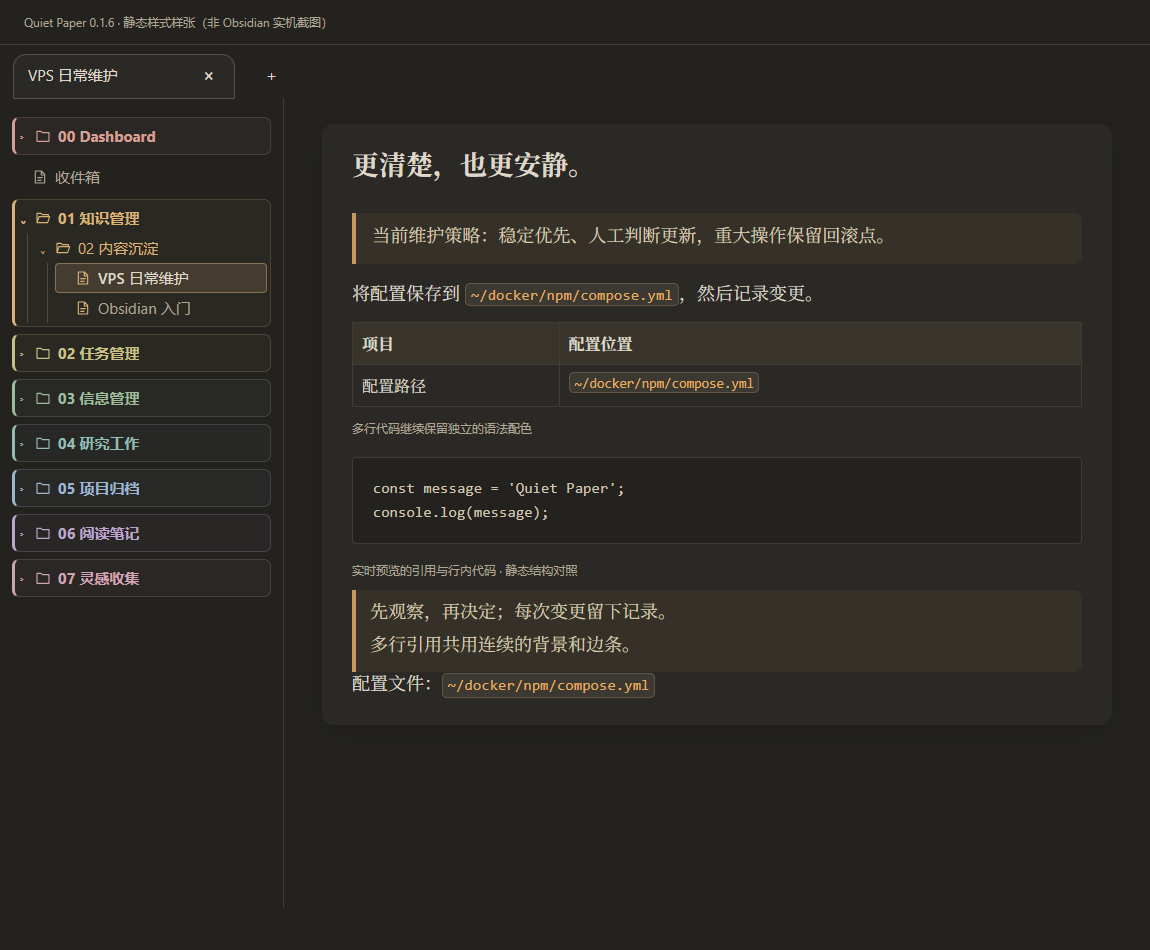
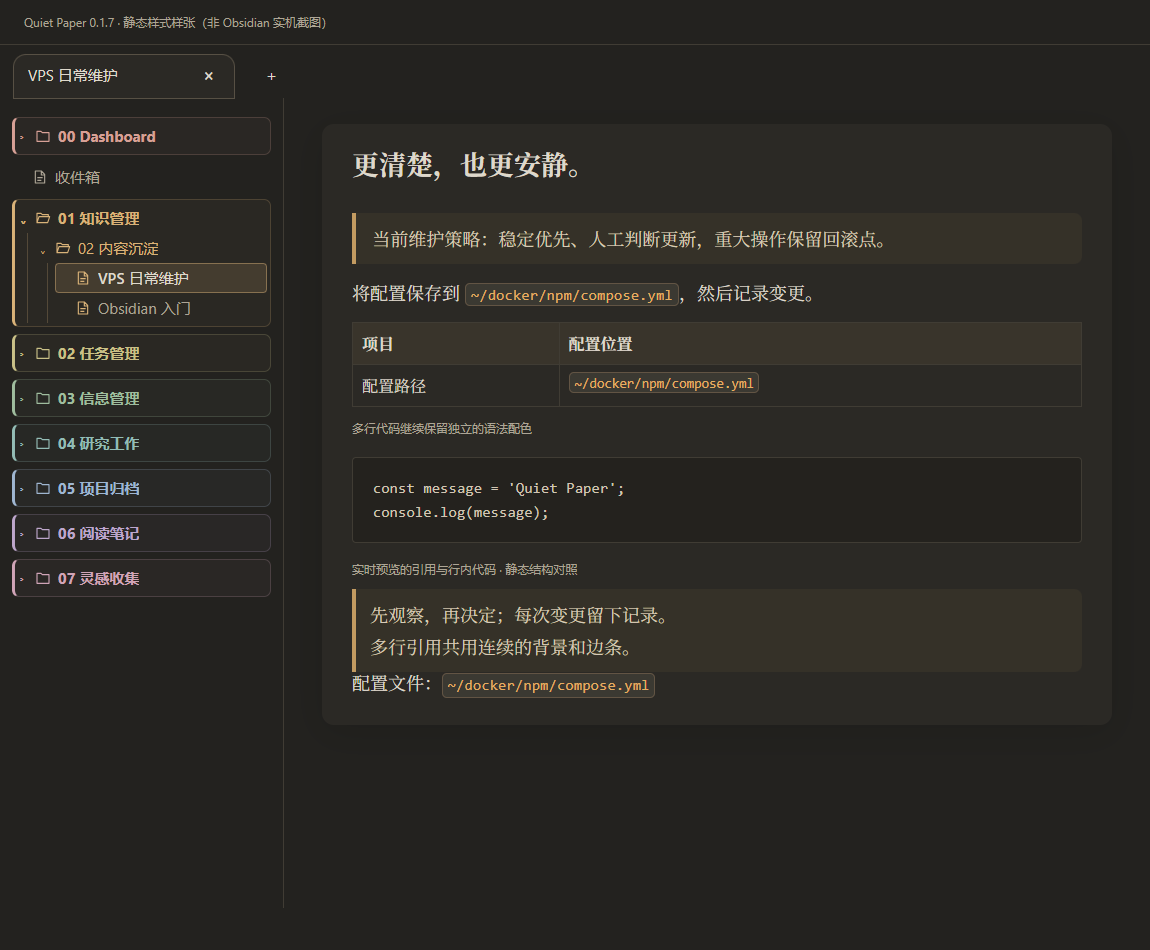
Balance quote padding and fit Mermaid diagrams to printed pages

Changed region(s): [[0.3043, 0.58, 0.5783, 0.7021], [0.3348, 0.2137, 0.7609, 0.2747]]

diff --git a/theme.css b/theme.css
@@ -1,4 +1,4 @@
-/* Quiet Paper 0.1.6 | MIT (theme) | TeX Gyre fonts: GUST Font License.
+/* Quiet Paper 0.1.7 | MIT (theme) | TeX Gyre fonts: GUST Font License.
  * Generated by npm run build; edit src/*.css instead.
  */
 
@@ -97,6 +97,12 @@ body {
   --qp-paper-radius: 12px;
   --qp-paper-shadow: 0 8px 36px rgb(42 36 24 / 5%);
   --qp-text-align: start;
+  --qp-quote-padding: 0.6em;
+
+  /* Optical adjustment for the reading font's ink above the baseline.
+     Equal-and-opposite padding preserves the total block/line height. */
+  --qp-quote-optical-offset: 0.2em;
+  --qp-mermaid-print-max-height: 80vh;
   --font-text-theme: var(--qp-reading-font);
   --line-height-normal: var(--qp-line-height);
   --line-height-tight: 1.35;
@@ -428,7 +434,8 @@ body.qp-justify {
 }
 
 .markdown-rendered blockquote {
-  padding: 0.6em 0.9em;
+  padding-block: calc(var(--qp-quote-padding) + var(--qp-quote-optical-offset)) calc(var(--qp-quote-padding) - var(--qp-quote-optical-offset));
+  padding-inline: 0.9em;
   border-radius: 0 8px 8px 0;
 }
 
@@ -440,12 +447,12 @@ body.qp-justify {
   }
 
   & > .cm-line.HyperMD-quote:not(.HyperMD-quote + .HyperMD-quote) {
-    padding-top: 0.6em;
+    padding-top: calc(var(--qp-quote-padding) + var(--qp-quote-optical-offset));
     border-start-end-radius: 8px;
   }
 
   & > .cm-line.HyperMD-quote:not(:has(+ .HyperMD-quote)) {
-    padding-bottom: 0.6em;
+    padding-bottom: calc(var(--qp-quote-padding) - var(--qp-quote-optical-offset));
     border-end-end-radius: 8px;
   }
 }
@@ -915,6 +922,30 @@ body:not(.qp-plain-folders) .workspace-leaf-content[data-type="file-explorer"] {
 
   & .nav-file-icon {
     color: var(--qp-folder-color, var(--text-muted));
+  }
+}
+
+/* 60-print.css */
+/* Print the SVG itself at page size, not a clipped screen-width viewport.
+   Mermaid emits inline pixel/percentage dimensions; !important is limited
+   to these print-only dimension overrides. Nested SVG icons stay untouched. */
+@media print {
+  .markdown-rendered .mermaid,
+  .markdown-rendered .mermaid-wrapper:not(.is-guarded) {
+    min-width: 0;
+    max-width: 100%;
+    overflow: visible;
+    break-inside: avoid;
+  }
+
+  .markdown-rendered .mermaid > svg {
+    display: block;
+    width: auto !important;
+    min-width: 0 !important;
+    max-width: 100% !important;
+    height: auto !important;
+    max-height: var(--qp-mermaid-print-max-height) !important;
+    margin-inline: auto;
   }
 }
 

diff --git a/src/30-typography.css b/src/30-typography.css
@@ -59,7 +59,8 @@
 }
 
 .markdown-rendered blockquote {
-  padding: 0.6em 0.9em;
+  padding-block: calc(var(--qp-quote-padding) + var(--qp-quote-optical-offset)) calc(var(--qp-quote-padding) - var(--qp-quote-optical-offset));
+  padding-inline: 0.9em;
   border-radius: 0 8px 8px 0;
 }
 
@@ -71,12 +72,12 @@
   }
 
   & > .cm-line.HyperMD-quote:not(.HyperMD-quote + .HyperMD-quote) {
-    padding-top: 0.6em;
+    padding-top: calc(var(--qp-quote-padding) + var(--qp-quote-optical-offset));
     border-start-end-radius: 8px;
   }
 
   & > .cm-line.HyperMD-quote:not(:has(+ .HyperMD-quote)) {
-    padding-bottom: 0.6em;
+    padding-bottom: calc(var(--qp-quote-padding) - var(--qp-quote-optical-offset));
     border-end-end-radius: 8px;
   }
 }

diff --git a/src/60-print.css b/src/60-print.css
@@ -1,0 +1,22 @@
+/* Print the SVG itself at page size, not a clipped screen-width viewport.
+   Mermaid emits inline pixel/percentage dimensions; !important is limited
+   to these print-only dimension overrides. Nested SVG icons stay untouched. */
+@media print {
+  .markdown-rendered .mermaid,
+  .markdown-rendered .mermaid-wrapper:not(.is-guarded) {
+    min-width: 0;
+    max-width: 100%;
+    overflow: visible;
+    break-inside: avoid;
+  }
+
+  .markdown-rendered .mermaid > svg {
+    display: block;
+    width: auto !important;
+    min-width: 0 !important;
+    max-width: 100% !important;
+    height: auto !important;
+    max-height: var(--qp-mermaid-print-max-height) !important;
+    margin-inline: auto;
+  }
+}

diff --git a/src/00-settings.css b/src/00-settings.css
@@ -60,6 +60,12 @@ body {
   --qp-paper-radius: 12px;
   --qp-paper-shadow: 0 8px 36px rgb(42 36 24 / 5%);
   --qp-text-align: start;
+  --qp-quote-padding: 0.6em;
+
+  /* Optical adjustment for the reading font's ink above the baseline.
+     Equal-and-opposite padding preserves the total block/line height. */
+  --qp-quote-optical-offset: 0.2em;
+  --qp-mermaid-print-max-height: 80vh;
   --font-text-theme: var(--qp-reading-font);
   --line-height-normal: var(--qp-line-height);
   --line-height-tight: 1.35;

diff --git a/docs/VALIDATION.md b/docs/VALIDATION.md
@@ -15,6 +15,8 @@
 | Style Settings 面板和图标插件组合 | 尚未完整验证 |
 | macOS、Linux、移动端与打印 | 未完整验收 |
 
+0.1.7 对引用做视觉校正，并加入 Mermaid 打印尺寸约束。独立浏览器生成的 A4、Letter、A4 横向 PDF 均检查了起止节点和页内边界，已渲染检查；这不是 Obsidian 的实际 PDF 导出，也不验证 Mermaid 解析器或插件生成的特殊图表。
+
 ## 自动检查
 
 ```sh
@@ -28,6 +30,8 @@ npm test
 
 - `test:typography`：154 项浅深色排版检查，覆盖应用字号与字体继承、两种视图的对齐与标题、打印对齐、表格留白、完整颜色值 Callout、混合列表层级与任务框。
 
+- `test:quote-print`：148 项检查，覆盖引用在不同字号、单双段和连续多行中的留白、块高度不变、嵌套编辑器例外，以及固定尺寸 / 百分比宽度 / 超高 / 小图的打印缩放。
+
 浏览器测试使用独立 Edge/Chromium 会话，不打开 Obsidian，也不操作个人库。样例只模拟所需 DOM 与原生样式约束；实际编辑器的高度测量、虚拟滚动与插件组合必须另外检查。生成的静态预览带有清楚标记，不能作为实机测试通过的证据。
 
 ## 手动检查
@@ -37,3 +41,7 @@ npm test
 截图或问题报告应标注版本、视图、字体和缩放。主题最低应用版本声明为 1.13.7，更早版本不作兼容承诺。
 
 0.1.6 的人工回归重点：用 16 / 18 / 24 字号查看长路径，切换「两端对齐正文」，对比导出 PDF；检查 Note / Info / Warning / Danger、折叠与嵌套 Callout，以及三级混合列表的光标和折叠操作。字体不支持中间字重时，H4–H6 的字重差异可能不明显，应同时观察字号和 H6 颜色。
+
+需要生成独立打印样张时运行 `npm run test:quote-print -- --pdf`，输出保存在忽略提交的 `.local/review/`。测试使用带 `viewBox` 与 `foreignObject` 标签的静态 SVG 结构，不执行 Obsidian 或 Mermaid 渲染器。打印最大高度默认 `80vh`（分页环境的页面区域高度比例），可用 CSS 变量 `--qp-mermaid-print-max-height` 调整。
+
+0.1.7 人工回归：核对单行、折行、多行引用的视觉居中；导出边界笔记中的长横向流程图和高纵向流程图，检查首尾节点、箭头与标签。自定义字体、超大页边距和第三方图表插件仍需按实际结果复核。

diff --git a/README.md b/README.md
@@ -4,7 +4,7 @@
 
 A paper-inspired Obsidian theme with serif typography, warm light and dark palettes, and a colorful file explorer.
 
-**版本 0.1.6 · Obsidian ≥ 1.13.7 · Windows 优先 · 无必需插件**
+**版本 0.1.7 · Obsidian ≥ 1.13.7 · Windows 优先 · 无必需插件**
 
 ## 预览
 
@@ -24,6 +24,7 @@ A paper-inspired Obsidian theme with serif typography, warm light and dark palet
 - **自然的混排**：默认左对齐，可选择两端对齐；字号、界面与代码字体遵循 Obsidian 设置。
 - **彩虹目录**：八组低饱和配色、层级线、开合文件夹图标与选中高亮。
 - **柔和的界面**：浅深配色、圆角文档标签，保留 Obsidian 原有操作方式。
+- **打印适配**：Mermaid 图表在打印时按页宽与高度上限等比缩小，屏幕显示不变。
 - **离线可用**：字体嵌入主题 CSS，运行时不请求远程资源。
 
 ## 安装
@@ -93,6 +94,8 @@ body {
 - 实时预览会在光标进入空行时恢复正常行高，可能出现局部位移；可开启「保留完整空行高度」。
 - 彩虹目录按当前挂载的顶层文件夹顺序配色。排序或长目录滚动可能改变色序，目前没有固定路径配色。
 - 表格前的空行属于 Markdown 内容，主题只调整显示，不改变解析规则或笔记文本。
+- Mermaid 打印规则适用于带有效 `viewBox` 的原生 SVG；超长图会缩小，文字也随之缩小。密集流程图可选横向纸张或拆成多张图，主题不重排节点。
+- 引用留白针对默认阅读字体做了视觉校正；若自定义字体偏差明显，可通过 CSS 片段设置 `--qp-quote-optical-offset: 0em` 恢复对称内边距。
 - 两端对齐使用浏览器原生能力，没有实现 Knuth–Plass 全段断行；公式仍由 MathJax 渲染。
 - Style Settings 面板及第三方图标插件的组合兼容性仍需更多实测。
 

diff --git a/demo-vault/03 — 边界检查.md b/demo-vault/03 — 边界检查.md
@@ -59,3 +59,37 @@ Hamburgefontsiv — AVATAR — 0123456789 — fi fl ffi ffl.
 日本語の組版では、句読点と余白の関係が大切です。
 
 글자와 글자 사이의 작은 여백이 읽기의 흐름을 만듭니다.
+
+## Mermaid 打印边界
+
+下面的长横向图用于检查打印时右侧的终点是否完整。打印应等比缩放，而不是截掉节点；文字较小时，可选择横向纸张。
+
+```mermaid
+flowchart LR
+    A[记录需求] --> B[编写 Markdown]
+    B --> C[在 Obsidian 中预览]
+    C --> D[检查 Quiet Paper 排版]
+    D --> E{检查是否通过}
+    E -->|需要调整| F[修正字体与留白]
+    F --> G[重新检查长链接和图表]
+    E -->|通过| H[导出 PDF]
+    G --> H
+    H --> I[确认末尾节点完整]
+```
+
+下面的纵向图用于检查高度约束；图表应整体放入页内，不将底部节点裁掉。
+
+```mermaid
+flowchart TD
+    A[开始] --> B[整理输入]
+    B --> C[阅读文档]
+    C --> D[记录问题]
+    D --> E[拟定方案]
+    E --> F[制作样例]
+    F --> G[检查结果]
+    G --> H[修正细节]
+    H --> I[准备输出]
+    I --> J[打印检查]
+    J --> K[保存记录]
+    K --> L[结束]
+```

diff --git a/CHANGELOG.md b/CHANGELOG.md
@@ -1,5 +1,11 @@
 # 更新记录
 
+## 0.1.7 — 2026-09-26
+
+- 校正阅读视图与实时预览中引用的视觉居中；等量增减上下留白，保持总高度不变，多行引用只调整首尾。
+- 新增 Mermaid 打印样式，覆盖图表的固定尺寸并按页宽与高度上限等比缩小，避免横向越界；屏幕图表尺寸不变。
+- 加入引用及打印回归、横向和纵向 Mermaid 演示。独立 PDF 检查覆盖 A4、Letter 与 A4 横向，尚待 Obsidian 实际导出反馈。
+
 ## 0.1.6 — 2026-09-26
 
 - 正文默认左对齐，将两端对齐改为 Style Settings 可选项；打印始终左对齐。
